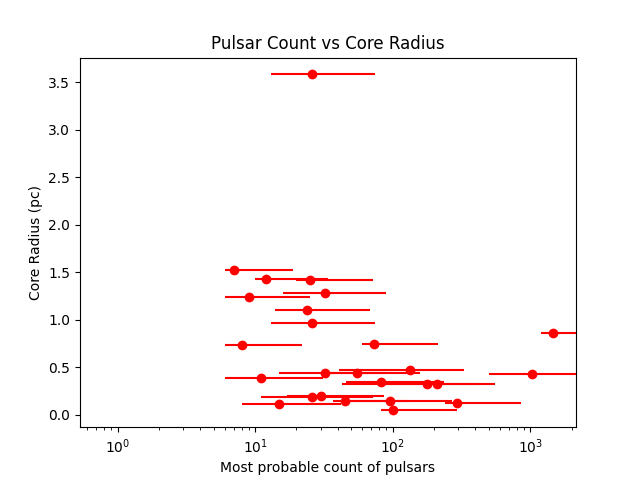
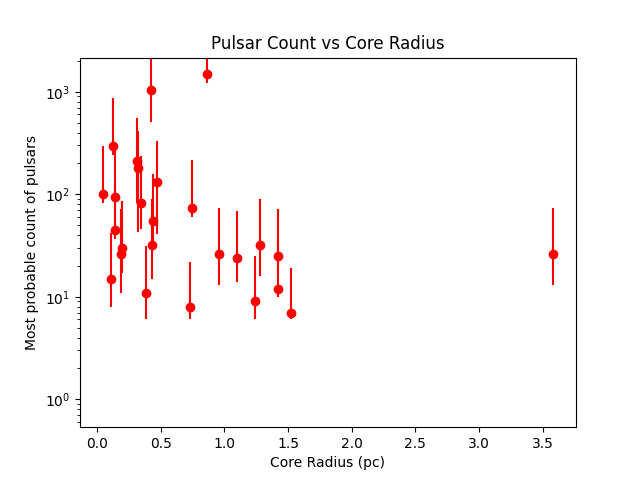
swapped x and y axes on the property plots (messily)

diff --git a/readClusterData.py b/readClusterData.py
@@ -84,10 +84,10 @@ for valueName, title, yLable in GENERATE_PLOTS:
         xErrorMax.append(clusterDic[clusterName]["95max"])
     xError = [xErrorMin, xErrorMax]
     #plt.scatter(xValues, yValues)
-    plt.xscale("log")
-    #plt.yscale("log")
+    plt.yscale("log")
+    #plt.xscale("log")
     plt.title(title)
-    plt.xlabel("Most probable count of pulsars")
-    plt.ylabel(yLable)
-    plt.errorbar(xValues, yValues, xerr=xError, fmt='or', capsize=0)
+    plt.ylabel("Most probable count of pulsars")
+    plt.xlabel(yLable)
+    plt.errorbar(yValues, xValues, yerr=xError, fmt='or', capsize=0) #swap the x and y axes the messy way
     plt.savefig(path.join(".","plots","properties",f"{valueName}.png"))
